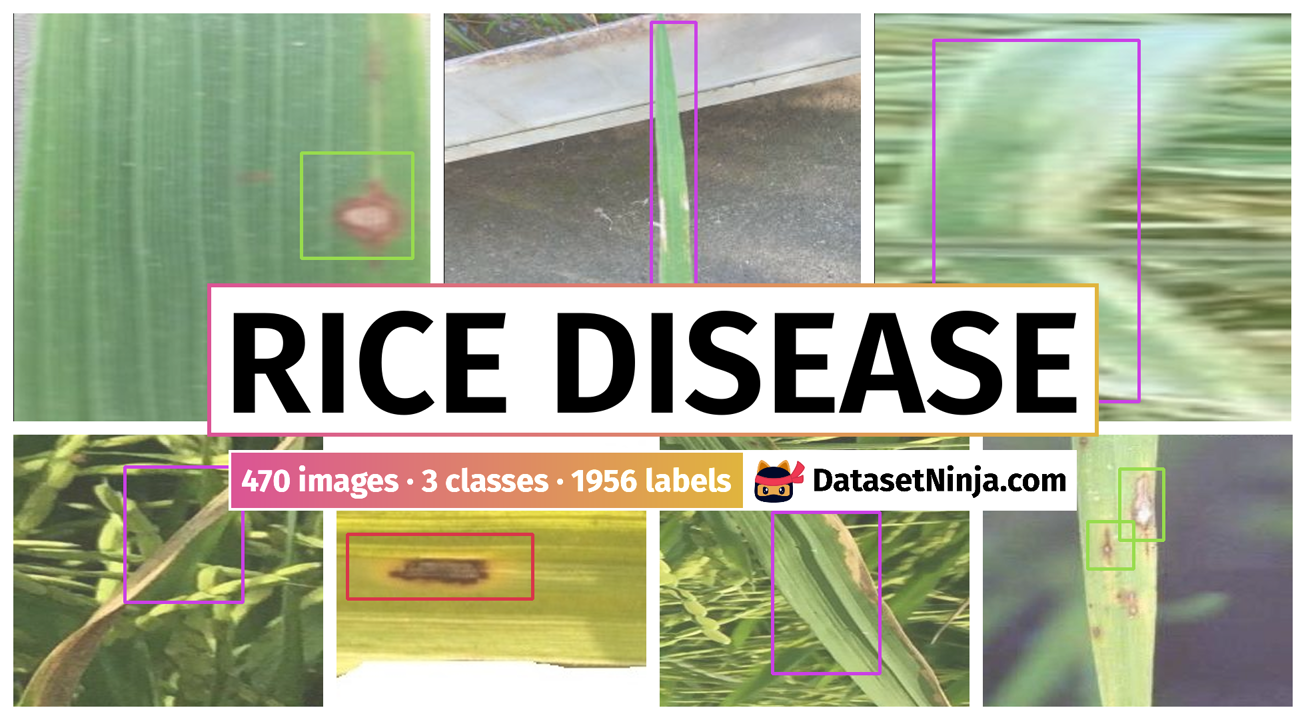
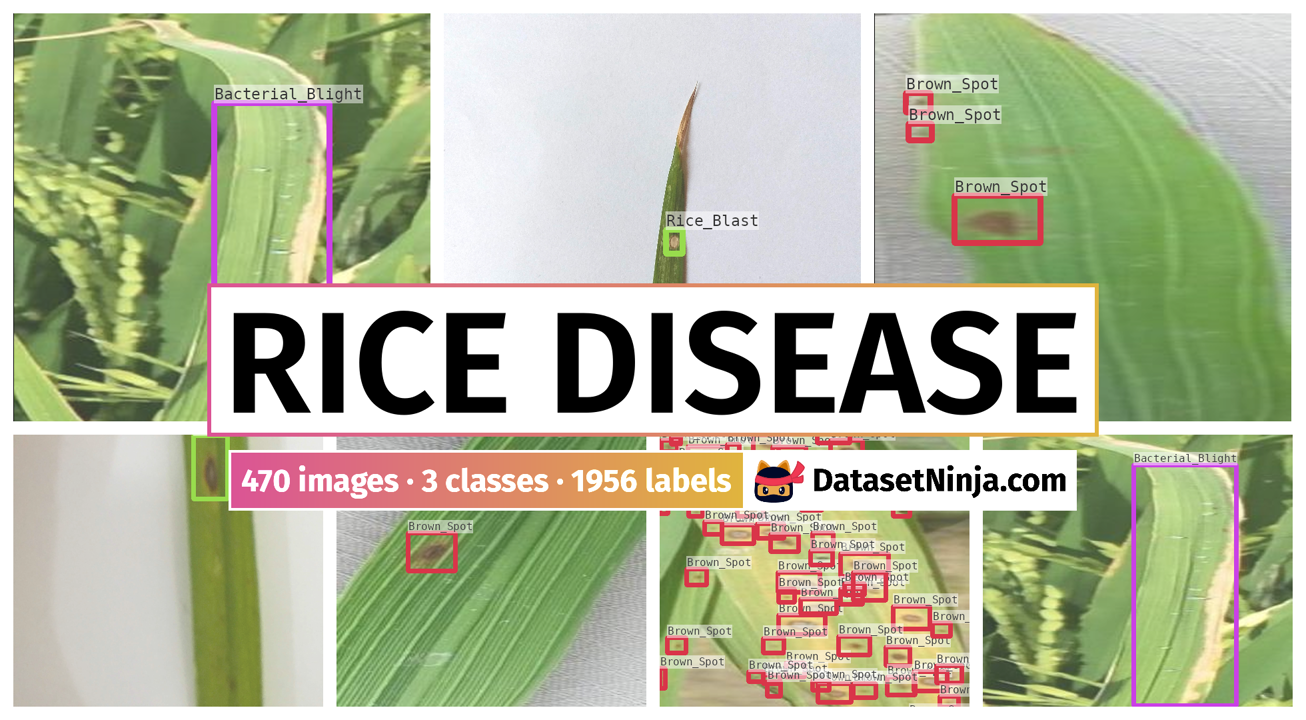
upd custom data

diff --git a/src/options.py b/src/options.py
@@ -1,0 +1,150 @@
+from dataset_tools.templates import AnnotationType
+from src.settings import ANNOTATION_TYPES
+
+###############################################################################
+# ! Set up values if you want to change default values of visualizations
+###############################################################################
+
+# * Preview class to visualize in SUMMARY.md overview section
+# * Literal["ClassesPreview", "HorizontalGrid", "SideAnnotationsGrid", "Poster"]
+# * If None, then preview_class will be set automatically to "ClassesPreview"
+PREVIEW_CLASS = "Poster"
+
+IS_DETECTION_TASK: bool = None  # ? Set True if you want to visualize only bbox annotations
+if IS_DETECTION_TASK is None:
+    IS_DETECTION_TASK = ANNOTATION_TYPES == [AnnotationType.ObjectDetection()]
+
+###############################################################
+####### * Set up visualization params for Poster class ########
+POSTER_IS_DETECTION_TASK: bool = IS_DETECTION_TASK
+POSTER_TITLE: str = None
+###############################################################
+
+
+###############################################################
+#### * Set up visualization params for HorizontalGrid class ###
+HORIZONTAL_GRID_ROWS: int = None
+HORIZONTAL_GRID_COLS: int = None
+HORIZONTAL_GRID_IS_DETECTION_TASK: bool = IS_DETECTION_TASK
+###############################################################
+
+
+###############################################################
+#### * Set up visualization params for VerticalGrid class #####
+VERTICAL_GRID_ROWS: int = None
+VERTICAL_GRID_COLS: int = None
+VERTICAL_GRID_IS_DETECTION_TASK: bool = IS_DETECTION_TASK
+###############################################################
+
+
+###############################################################
+# * Set up visualization params for SideAnnotationsGrid class #
+SIDE_ANNOTATIONS_GRID_ROWS: int = None
+SIDE_ANNOTATIONS_GRID_COLS: int = None
+SIDE_ANNOTATIONS_GRID_IS_DETECTION_TASK: bool = IS_DETECTION_TASK
+###############################################################
+
+
+###############################################################
+###### * Set up visualization params for Previews class #######
+PREVIEWS_IS_DETECTION_TASK: bool = IS_DETECTION_TASK
+###############################################################
+
+###############################################################
+### * Set up visualization params for ClassesPreview class ####
+CLASSES_PREVIEW_ROW_HEIGHT: int = None
+CLASSES_PREVIEW_PADDINGS: dict = None
+CLASSES_PREVIEW_ROWS: int = None
+CLASSES_PREVIEW_GAP: int = None
+# default {"top": "10%", "bottom": "10%", "left": "10%", "right": "10%"}
+# set % or px as string values (e.i. "10%" or "10px")
+###############################################################
+
+
+###############################################################
+### * Set up visualization params for ClassesHeatmaps class ###
+# args for "to_image" method
+DRAW_STYLE: str = None  # "inside_white" or "outside_black"
+HEATMAP_ROWS: int = None
+HEATMAP_COLS: int = None
+HEATMAP_GRID_SPACING: int = None
+HEATMAP_OUTER_GRID_SPACING: int = None
+HEATMAP_OUTPUT_WIDTH: int = (
+    None  # 1 class in dataset? -> 1600px for portrait images, 2200px for landscape
+)
+###############################################################
+
+
+##################################
+###### ? Do not edit bellow #####
+##################################
+
+
+def get_visualization_options():
+    vis_settings = {
+        "Poster": {
+            "title": POSTER_TITLE,
+            "is_detection_task": POSTER_IS_DETECTION_TASK,
+        },
+        "HorizontalGrid": {
+            "rows": HORIZONTAL_GRID_ROWS,
+            "cols": HORIZONTAL_GRID_COLS,
+            "is_detection_task": HORIZONTAL_GRID_IS_DETECTION_TASK,
+        },
+        "VerticalGrid": {
+            "rows": VERTICAL_GRID_ROWS,
+            "cols": VERTICAL_GRID_COLS,
+            "is_detection_task": VERTICAL_GRID_IS_DETECTION_TASK,
+        },
+        "SideAnnotationsGrid": {
+            "rows": SIDE_ANNOTATIONS_GRID_ROWS,
+            "cols": SIDE_ANNOTATIONS_GRID_COLS,
+            "is_detection_task": SIDE_ANNOTATIONS_GRID_IS_DETECTION_TASK,
+        },
+    }
+
+    checked_vis_settings = {}
+
+    for class_name, class_settings in vis_settings.items():
+        new_class_settings = {}
+        for field, value in class_settings.items():
+            if value is not None:
+                new_class_settings[field] = value
+        if len(new_class_settings) > 0:
+            checked_vis_settings[class_name] = new_class_settings
+
+    return checked_vis_settings
+
+
+def get_stats_options():
+    stats_settings = {
+        "ClassesPreview": {
+            "row_height": CLASSES_PREVIEW_ROW_HEIGHT,
+            "pad": CLASSES_PREVIEW_PADDINGS,
+            "rows": CLASSES_PREVIEW_ROWS,
+            "gap": CLASSES_PREVIEW_GAP,
+        },
+        "ClassesHeatmaps": {
+            "draw_style": DRAW_STYLE,
+            "rows": HEATMAP_ROWS,
+            "cols": HEATMAP_COLS,
+            "grid_spacing": HEATMAP_GRID_SPACING,
+            "outer_grid_spacing": HEATMAP_OUTER_GRID_SPACING,
+            "output_width": HEATMAP_OUTPUT_WIDTH,
+        },
+        "Previews": {
+            "is_detection_task": PREVIEWS_IS_DETECTION_TASK,
+        },
+    }
+
+    checked_stats_settings = {}
+
+    for class_name, class_settings in stats_settings.items():
+        new_class_settings = {}
+        for field, value in class_settings.items():
+            if value is not None:
+                new_class_settings[field] = value
+        if len(new_class_settings) > 0:
+            checked_stats_settings[class_name] = new_class_settings
+
+    return checked_stats_settings

diff --git a/src/settings.py b/src/settings.py
@@ -1,6 +1,14 @@
 from typing import Dict, List, Optional, Union
 
-from dataset_tools.templates import AnnotationType, CVTask, Industry, License
+from dataset_tools.templates import (
+    AnnotationType,
+    Category,
+    CVTask,
+    Domain,
+    Industry,
+    License,
+    Research,
+)
 
 ##################################
 # * Before uploading to instance #
@@ -12,11 +20,16 @@ PROJECT_NAME_FULL: str = "Rice leaf diseases with boundary box"
 # * After uploading to instance ##
 ##################################
 LICENSE: License = License.CC0_1_0()
-INDUSTRIES: List[Industry] = Industry.Agriculture()
+APPLICATIONS: List[Union[Industry, Domain, Research]] = [Industry.Agricultural(is_used=False)]
+CATEGORY: Category = Category.Agriculture()
+
 CV_TASKS: List[CVTask] = [CVTask.ObjectDetection()]
 ANNOTATION_TYPES: List[AnnotationType] = [AnnotationType.ObjectDetection()]
 
-RELEASE_YEAR: int = 2021
+RELEASE_DATE: Optional[str] = None  # e.g. "YYYY-MM-DD"
+if RELEASE_DATE is None:
+    RELEASE_YEAR: int = 2021
+
 HOMEPAGE_URL: str = "https://www.kaggle.com/datasets/nischallal/rice-disease-dataset"
 # e.g. "https://some.com/dataset/homepage"
 
@@ -39,8 +52,17 @@ CLASS2COLOR: Optional[Dict[str, List[str]]] = None
 
 PAPER: Optional[str] = None
 CITATION_URL: Optional[str] = "https://www.kaggle.com/datasets/nischallal/rice-disease-dataset"
+AUTHORS: Optional[List[str]] = [
+    "Nischal Lal Shrestha",
+    "Poshan Pandey",
+    "Ashish Tiwari",
+    "Rezina Giri",
+]
+
 ORGANIZATION_NAME: Optional[Union[str, List[str]]] = None
 ORGANIZATION_URL: Optional[Union[str, List[str]]] = None
+
+SLYTAGSPLIT: Optional[Dict[str, List[str]]] = None
 TAGS: List[str] = None
 
 ##################################
@@ -55,10 +77,15 @@ def check_names():
 
 
 def get_settings():
+    if RELEASE_DATE is not None:
+        global RELEASE_YEAR
+        RELEASE_YEAR = int(RELEASE_DATE.split("-")[0])
+
     settings = {
         "project_name": PROJECT_NAME,
         "license": LICENSE,
-        "industries": INDUSTRIES,
+        "applications": APPLICATIONS,
+        "category": CATEGORY,
         "cv_tasks": CV_TASKS,
         "annotation_types": ANNOTATION_TYPES,
         "release_year": RELEASE_YEAR,
@@ -70,13 +97,16 @@ def get_settings():
     if any([field is None for field in settings.values()]):
         raise ValueError("Please fill all fields in settings.py after uploading to instance.")
 
+    settings["release_date"] = RELEASE_DATE
     settings["project_name_full"] = PROJECT_NAME_FULL or PROJECT_NAME
     settings["download_original_url"] = DOWNLOAD_ORIGINAL_URL
     settings["class2color"] = CLASS2COLOR
     settings["paper"] = PAPER
     settings["citation_url"] = CITATION_URL
+    settings["authors"] = AUTHORS
     settings["organization_name"] = ORGANIZATION_NAME
     settings["organization_url"] = ORGANIZATION_URL
-    settings["tags"] = TAGS if TAGS is not None else []
+    settings["slytagsplit"] = SLYTAGSPLIT
+    settings["tags"] = TAGS
 
     return settings

diff --git a/src/main.py b/src/main.py
@@ -7,6 +7,7 @@ import supervisely as sly
 from dataset_tools import ProjectRepo
 from dotenv import load_dotenv
 
+import src.options as o
 import src.settings as s
 from src.convert import convert_and_upload_supervisely_project
 
@@ -25,8 +26,8 @@ def get_project_info(api: sly.Api):
     project_info = api.project.get_info_by_name(WORKSPACE_ID, s.PROJECT_NAME)
     if not project_info:
         # If project doesn't found on instance, create it and use new project info.
+        sly.logger.info(f"Project {s.PROJECT_NAME} not found on instance. Creating a new one...")
         project_info = convert_and_upload_supervisely_project(api, WORKSPACE_ID, s.PROJECT_NAME)
-        sly.logger.info(f"Project {s.PROJECT_NAME} not found on instance. Created new project.")
         sly.logger.info("Now you can explore created project and choose 'preview_image_id'.")
         sys.exit(0)
     else:
@@ -56,6 +57,9 @@ if __name__ == "__main__":
     project_id = get_project_info(api).id
     settings = s.get_settings()
 
+    stat_options = o.get_stats_options()
+    vis_options = o.get_visualization_options()
+
     sly.logger.info(f"Starting to work with project id: {project_id}.")
 
     force_stats = forces.get("force_stats")
@@ -63,11 +67,9 @@ if __name__ == "__main__":
     force_texts = forces.get("force_texts")
 
     project_repo = ProjectRepo(api, project_id, settings)
-    project_repo.build_stats(force=force_stats)
-    project_repo.build_visualizations(force=force_visuals)
+    project_repo.build_stats(force=force_stats, settings=stat_options)
+    project_repo.build_visualizations(force=force_visuals, settings=vis_options)
 
-    # * Optional parameter preview_class should be passed if needed:
-    # * Literal["ClassesPreview", "HorizontalGrid", "SideAnnotationsGrid"]
-    project_repo.build_texts(force=force_texts, preview_class="HorizontalGrid")
+    project_repo.build_texts(force=force_texts, preview_class=o.PREVIEW_CLASS)
 
     sly.logger.info("Script finished.")

diff --git a/SUMMARY.md b/SUMMARY.md
@@ -1,9 +1,7 @@
-**Rice leaf diseases with boundary box** is a dataset for object detection tasks. It is used in the agriculture industry.
+**Rice leaf diseases with boundary box** is a dataset for object detection tasks. Possible applications of the dataset could be in the agricultural industry. 
 
 The dataset consists of 470 images with 1956 labeled objects belonging to 3 different classes including *Bacterial_Blight*, *Brown_Spot*, and *Rice_Blast*.
 
-Each image in the Rice Disease dataset has bounding boxes annotations. All images are labeled (i.e. with annotations). There are 3 splits in the dataset: *test* (61 images), *valid* (87 images), and *train* (322 images). The dataset was released in 2021.
+Images in the Rice Disease dataset have bounding box annotations. All images are labeled (i.e. with annotations). There are 3 splits in the dataset: *valid* (87 images), *train* (322 images), and *test* (61 images). The dataset was released in 2021.
 
-Here is the visualized example grid with annotations:
-
-<img src="https://github.com/dataset-ninja/rice-disease/raw/main/visualizations/horizontal_grid.png">
+<img src="https://github.com/dataset-ninja/rice-disease/raw/main/visualizations/poster.png">
